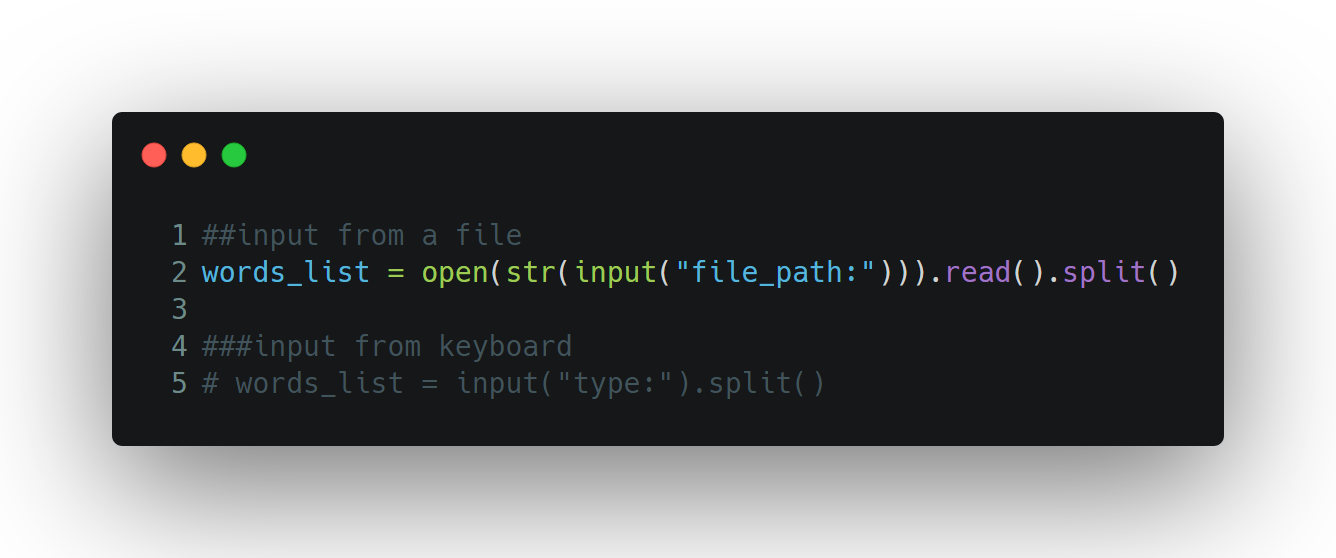
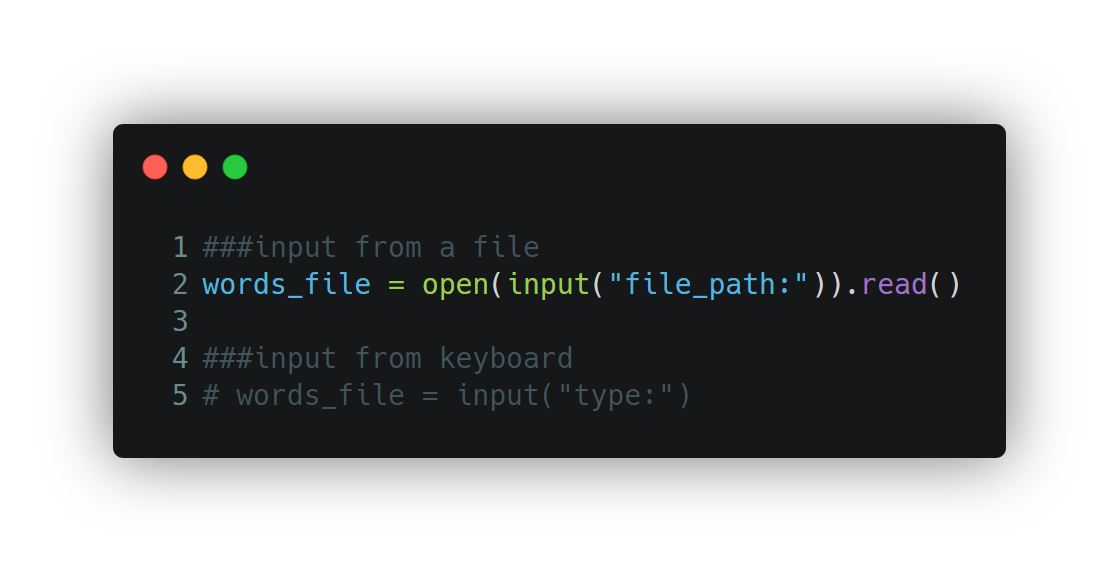
Use a shorter methods

Changed region(s): [[0.0304, 0.1828, 0.9732, 1.0]]

diff --git a/longest_words.py b/longest_words.py
@@ -1,40 +1,22 @@
 ###input from a file
-words_list = open(str(input("file_path:"))).read().split()
+words_file = open(input("file_path:")).read()
 
 ###input from keyboard
-# words_list = input("type:").split()
+# words_file = input("type:")
 
-longest_words = []
-words_len = []
+words_list = list(reversed(sorted(words_file.split(), key=len)))
 
-for word in words_list:
-    words_len.append(len(word))
+max_len = len(words_list[0])
 
-max_length = max(words_len)
+printed_words = []
 
 for word in words_list:
-    if len(word) == max_length:
-        longest_words.append(word)
+    if len(word) == max_len and word not in printed_words:
+        repetition = words_list.count(word)
+        if repetition == 1:
+            print(f"-----> {word}")
+        else:
+            print(f"-----> {word} [{repetition}]")
+        printed_words.append(word)
 
-longest_words_not_repeated = set(longest_words)
-
-
-print(f"""
-max length = {max_length}
-""")
-
-for word in longest_words_not_repeated:
-    repeated = longest_words.count(word)
-    
-    if repeated == 1 :
-        print(f"---->'{word}'")
-        
-    elif repeated != 1 :
-        print(f"---->'{word}' [{repeated}]")
-        
-    print("")
-
-
-print(f"""
-
-The max length is {max_length} Letters""")
+print(f"max length = {max_len}")
